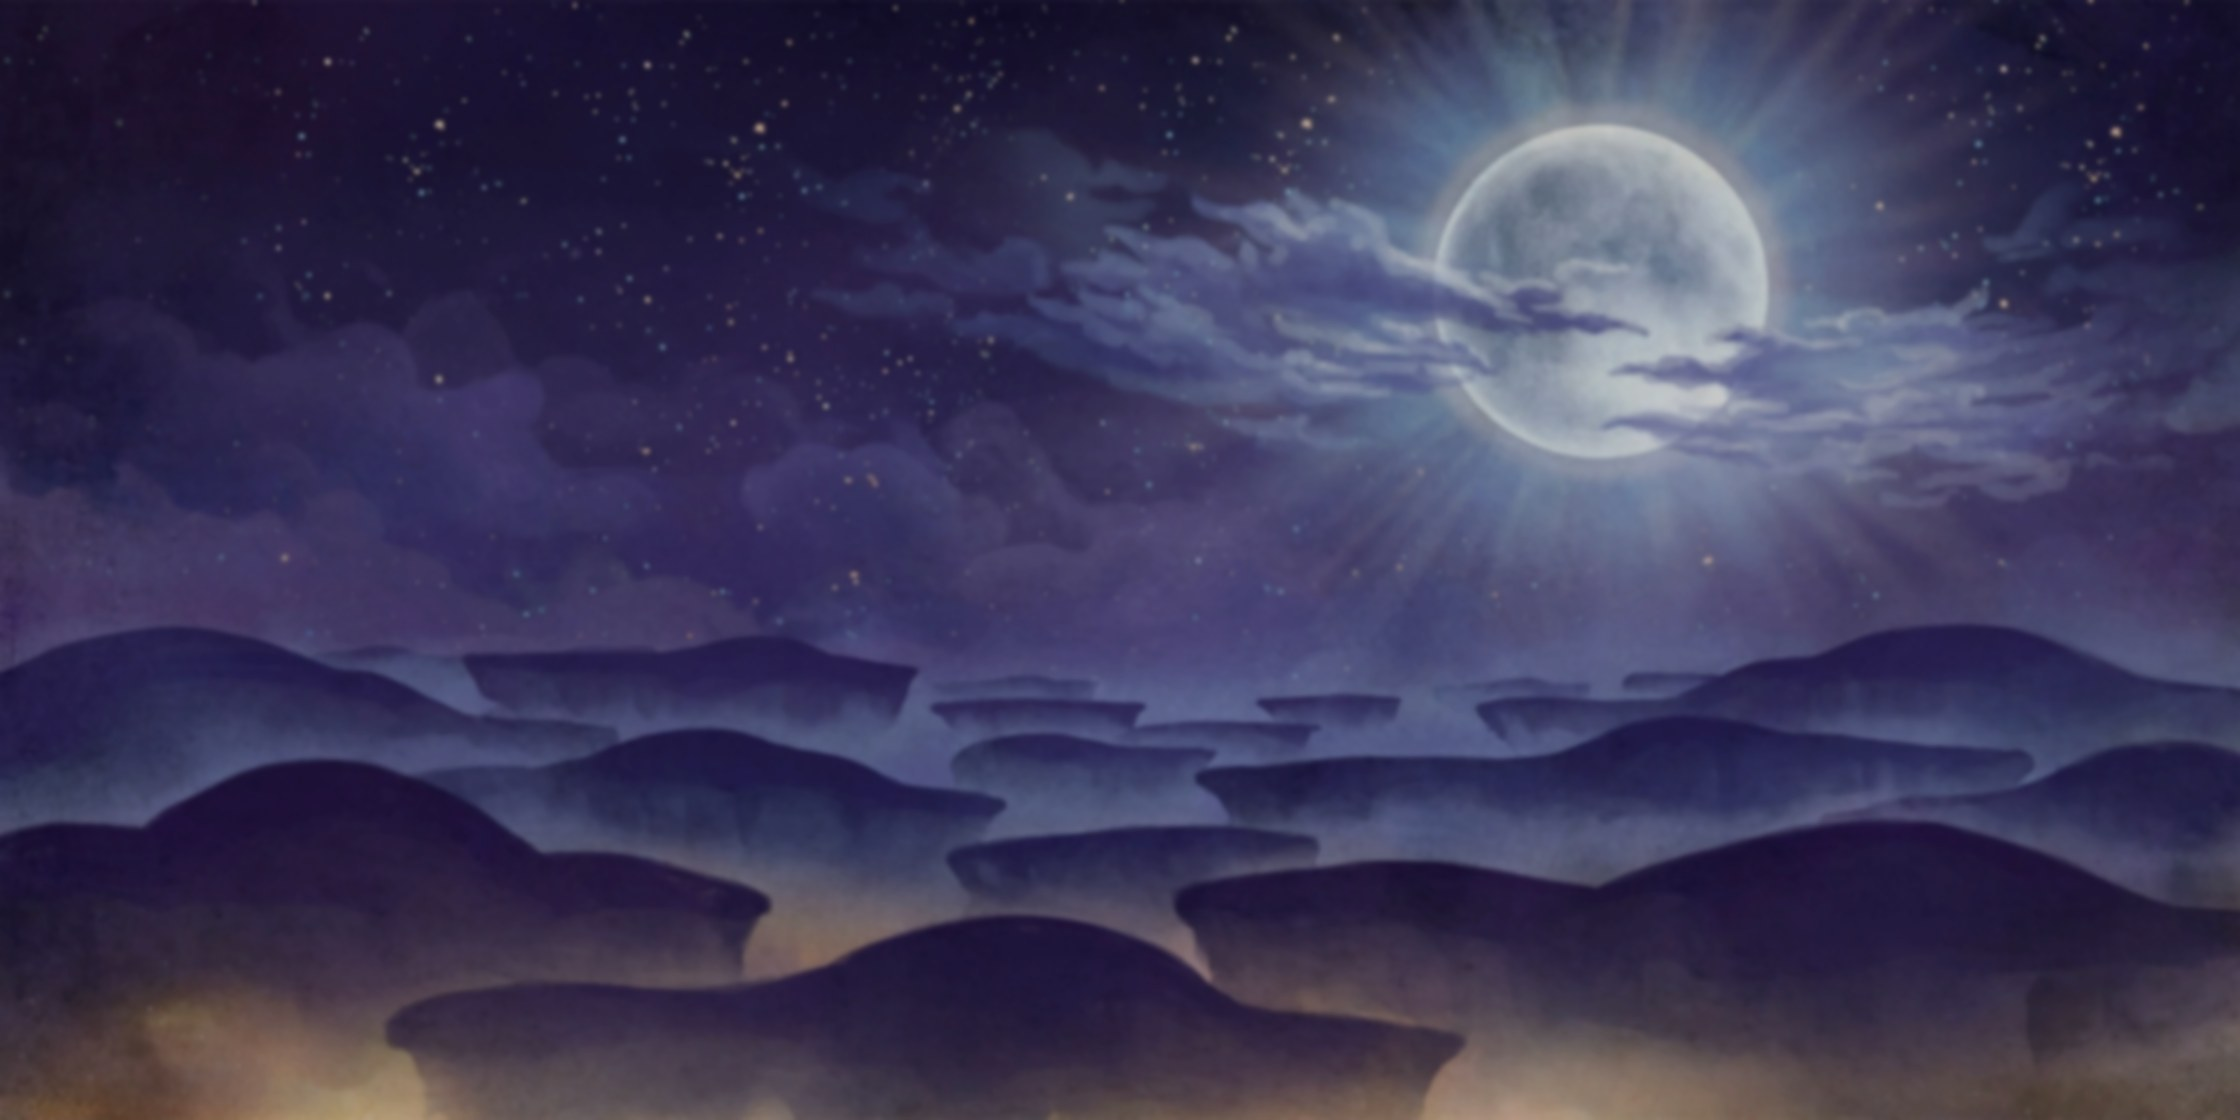
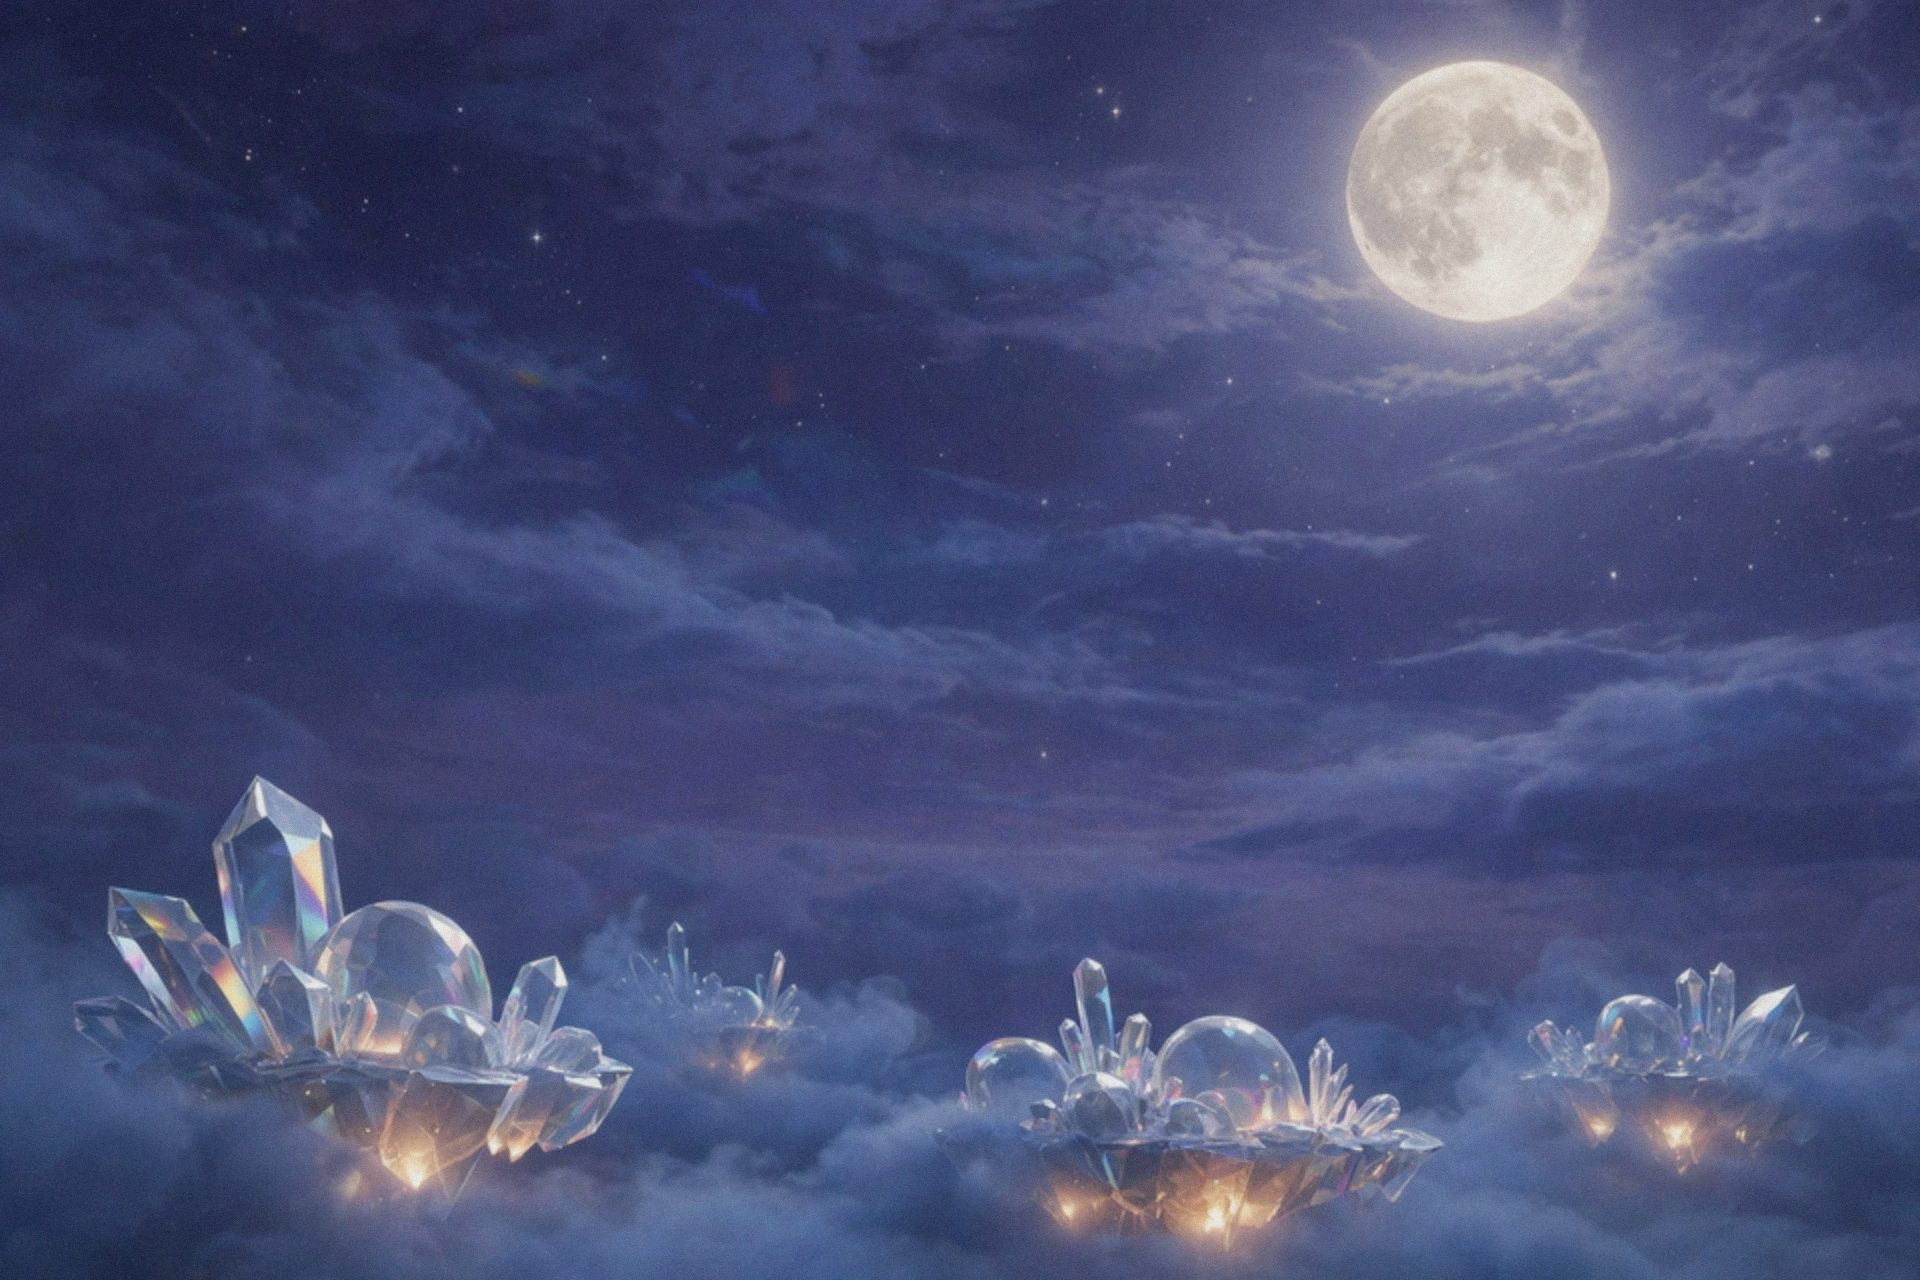
背景をクリスタルの浮島に変更＋星屑と流れ星の粒子表現を刷新

diff --git a/docs/index.html b/docs/index.html
@@ -626,12 +626,12 @@ document.addEventListener("DOMContentLoaded", () => {
       "--op:" + (.35+Math.random()*.6) + ";";
     container.appendChild(star);
   }
-  // ===== 流れ星（粒子で描く・左下へ・たまに） =====
+  // ===== 星屑と流れ星（粒子・奥行きと加速度つき） =====
   const mc = document.createElement("canvas");
   mc.style.cssText = "position:absolute;inset:0;width:100%;height:100%;pointer-events:none;";
   container.appendChild(mc);
   const mtx = mc.getContext("2d");
-  let CW = 0, CH = 0, parts = [], head = null, rafId = null;
+  let CW = 0, CH = 0;
   function sizeCanvas() {
     const dpr = Math.min(window.devicePixelRatio || 1, 2);
     CW = container.clientWidth; CH = container.clientHeight;
@@ -640,59 +640,92 @@ document.addEventListener("DOMContentLoaded", () => {
   }
   sizeCanvas();
   window.addEventListener("resize", sizeCanvas);
+
+  // 星屑：奥行き z で速度・大きさ・明るさが変わる
+  const DUST_N = 16;
+  const dust = [];
+  function newDust(init) {
+    const z = .3 + Math.random()*.7;
+    return {
+      x: Math.random()*CW, y: init ? Math.random()*CH*.8 : -4,
+      z, vy: .22 + z*.5, sway: Math.random()*Math.PI*2, swf: .008 + Math.random()*.012,
+      size: .5 + z*1.05, tw: Math.random()*Math.PI*2, tws: .06 + Math.random()*.1,
+      gold: Math.random() < .55
+    };
+  }
+  for (let i = 0; i < DUST_N; i++) dust.push(newDust(true));
+
+  // 流れ星：重力で加速しながら弧を描く頭＋細かい尾の粒
+  let head = null, tail = [];
+  function spawnMeteor() {
+    if (!head && CW > 0) {
+      const z = .7 + Math.random()*.3;
+      const th = (22 + Math.random()*8) * Math.PI/180;
+      const spd = 2.6 + Math.random()*1.1;
+      head = {
+        x: CW * (.55 + Math.random()*.35), y: CH * (.02 + Math.random()*.13),
+        vx: -Math.cos(th)*spd*z*1.6, vy: Math.sin(th)*spd*z*1.6,
+        z, life: 1
+      };
+    }
+    setTimeout(spawnMeteor, 11000 + Math.random()*9000);
+  }
+  setTimeout(spawnMeteor, 6000 + Math.random()*4000);
+
   function tick() {
     mtx.clearRect(0, 0, CW, CH);
+    for (let i = 0; i < dust.length; i++) {
+      const d = dust[i];
+      d.vy *= 1.0016;
+      d.y += d.vy; d.sway += d.swf;
+      d.x += Math.sin(d.sway) * .35 * d.z;
+      d.tw += d.tws;
+      const fade = d.y > CH*.72 ? Math.max(0, 1 - (d.y - CH*.72)/(CH*.2)) : 1;
+      const a = (.25 + .5*d.z) * (.55 + .45*Math.sin(d.tw)) * fade * .8;
+      mtx.fillStyle = d.gold ? "rgba(240,184,88," + a + ")" : "rgba(245,232,208," + a + ")";
+      mtx.beginPath(); mtx.arc(d.x, d.y, d.size, 0, Math.PI*2); mtx.fill();
+      if (d.y > CH*.95 || fade <= 0) dust[i] = newDust(false);
+    }
     if (head) {
+      head.vy += .05 * head.z;
+      head.vx *= .999;
       head.x += head.vx; head.y += head.vy;
-      head.vx *= .996; head.vy *= .996;
-      head.life -= .011;
-      const n = 4;
-      for (let i = 0; i < n; i++) {
-        parts.push({
-          x: head.x + (Math.random()-.5)*3, y: head.y + (Math.random()-.5)*3,
-          vx: -head.vx*.06 + (Math.random()-.5)*.5,
-          vy: -head.vy*.06 + (Math.random()-.5)*.5 - .08,
-          life: 1, decay: .012 + Math.random()*.02,
-          size: .6 + Math.random()*1.7,
-          tw: Math.random()*Math.PI*2, tws: .25 + Math.random()*.4,
+      head.life -= .0085;
+      for (let i = 0; i < 3; i++) {
+        const pz = Math.max(.25, head.z + (Math.random()-.5)*.3);
+        tail.push({
+          x: head.x + (Math.random()-.5)*2.5, y: head.y + (Math.random()-.5)*2.5,
+          vx: -head.vx*.05 + (Math.random()-.5)*.35,
+          vy: -head.vy*.05 + (Math.random()-.5)*.35,
+          z: pz, life: 1, decay: .011 + Math.random()*.014,
+          size: .4 + pz*.9,
+          tw: Math.random()*Math.PI*2, tws: .3 + Math.random()*.45,
           gold: Math.random() < .6
         });
       }
-      const ha = head.life < .15 ? head.life/.15 : (head.life > .9 ? (1-head.life)/.1 : 1);
-      const g = mtx.createRadialGradient(head.x, head.y, 0, head.x, head.y, 9);
-      g.addColorStop(0, "rgba(255,250,235," + (.9*ha) + ")");
-      g.addColorStop(.35, "rgba(240,184,88," + (.45*ha) + ")");
+      if (tail.length > 240) tail.splice(0, tail.length - 240);
+      const ha = head.life < .2 ? head.life/.2 : (head.life > .92 ? (1-head.life)/.08 : 1);
+      const R = 7 * head.z + 2;
+      const g = mtx.createRadialGradient(head.x, head.y, 0, head.x, head.y, R);
+      g.addColorStop(0, "rgba(255,250,235," + (.75*ha) + ")");
+      g.addColorStop(.35, "rgba(240,184,88," + (.32*ha) + ")");
       g.addColorStop(1, "rgba(240,184,88,0)");
       mtx.fillStyle = g;
-      mtx.beginPath(); mtx.arc(head.x, head.y, 9, 0, Math.PI*2); mtx.fill();
-      if (head.life <= 0) head = null;
+      mtx.beginPath(); mtx.arc(head.x, head.y, R, 0, Math.PI*2); mtx.fill();
+      if (head.life <= 0 || head.x < -20 || head.y > CH + 20) head = null;
     }
-    parts = parts.filter(p => p.life > 0);
-    for (const p of parts) {
-      p.x += p.vx; p.y += p.vy; p.life -= p.decay; p.tw += p.tws;
-      const sparkle = .55 + .45 * Math.sin(p.tw);
-      const a = Math.max(p.life, 0) * sparkle * .85;
-      mtx.fillStyle = p.gold
-        ? "rgba(240,184,88," + a + ")"
-        : "rgba(245,232,208," + a + ")";
+    tail = tail.filter(p => p.life > 0);
+    for (const p of tail) {
+      p.x += p.vx; p.y += p.vy;
+      p.vx *= .985; p.vy = p.vy * .985 + .004;
+      p.life -= p.decay; p.tw += p.tws;
+      const a = Math.max(p.life, 0) * (.5 + .5*Math.sin(p.tw)) * .7;
+      mtx.fillStyle = p.gold ? "rgba(240,184,88," + a + ")" : "rgba(245,232,208," + a + ")";
       mtx.beginPath(); mtx.arc(p.x, p.y, p.size, 0, Math.PI*2); mtx.fill();
     }
-    if (head || parts.length) { rafId = requestAnimationFrame(tick); }
-    else { rafId = null; mtx.clearRect(0, 0, CW, CH); }
+    requestAnimationFrame(tick);
   }
-  function spawnMeteor() {
-    if (!head) {
-      const th = (28 + Math.random()*10) * Math.PI/180;
-      const spd = 5.4 + Math.random()*1.8;
-      head = {
-        x: CW * (.5 + Math.random()*.38), y: CH * (.03 + Math.random()*.15),
-        vx: -Math.cos(th)*spd, vy: Math.sin(th)*spd, life: 1
-      };
-      if (!rafId) tick();
-    }
-    setTimeout(spawnMeteor, 9000 + Math.random()*9000);
-  }
-  setTimeout(spawnMeteor, 5000 + Math.random()*4000);
+  tick();
 })();
 
 // ===== ナビのスクロール制御 =====

diff --git a/docs/links.html b/docs/links.html
@@ -208,12 +208,12 @@ footer a:hover { color:var(--cream); }
       "--op:" + (.35+Math.random()*.6) + ";";
     container.appendChild(star);
   }
-  // ===== 流れ星（粒子で描く・左下へ・たまに） =====
+  // ===== 星屑と流れ星（粒子・奥行きと加速度つき） =====
   const mc = document.createElement("canvas");
   mc.style.cssText = "position:absolute;inset:0;width:100%;height:100%;pointer-events:none;";
   container.appendChild(mc);
   const mtx = mc.getContext("2d");
-  let CW = 0, CH = 0, parts = [], head = null, rafId = null;
+  let CW = 0, CH = 0;
   function sizeCanvas() {
     const dpr = Math.min(window.devicePixelRatio || 1, 2);
     CW = container.clientWidth; CH = container.clientHeight;
@@ -222,59 +222,92 @@ footer a:hover { color:var(--cream); }
   }
   sizeCanvas();
   window.addEventListener("resize", sizeCanvas);
+
+  // 星屑：奥行き z で速度・大きさ・明るさが変わる
+  const DUST_N = 16;
+  const dust = [];
+  function newDust(init) {
+    const z = .3 + Math.random()*.7;
+    return {
+      x: Math.random()*CW, y: init ? Math.random()*CH*.8 : -4,
+      z, vy: .22 + z*.5, sway: Math.random()*Math.PI*2, swf: .008 + Math.random()*.012,
+      size: .5 + z*1.05, tw: Math.random()*Math.PI*2, tws: .06 + Math.random()*.1,
+      gold: Math.random() < .55
+    };
+  }
+  for (let i = 0; i < DUST_N; i++) dust.push(newDust(true));
+
+  // 流れ星：重力で加速しながら弧を描く頭＋細かい尾の粒
+  let head = null, tail = [];
+  function spawnMeteor() {
+    if (!head && CW > 0) {
+      const z = .7 + Math.random()*.3;
+      const th = (22 + Math.random()*8) * Math.PI/180;
+      const spd = 2.6 + Math.random()*1.1;
+      head = {
+        x: CW * (.55 + Math.random()*.35), y: CH * (.02 + Math.random()*.13),
+        vx: -Math.cos(th)*spd*z*1.6, vy: Math.sin(th)*spd*z*1.6,
+        z, life: 1
+      };
+    }
+    setTimeout(spawnMeteor, 11000 + Math.random()*9000);
+  }
+  setTimeout(spawnMeteor, 6000 + Math.random()*4000);
+
   function tick() {
     mtx.clearRect(0, 0, CW, CH);
+    for (let i = 0; i < dust.length; i++) {
+      const d = dust[i];
+      d.vy *= 1.0016;
+      d.y += d.vy; d.sway += d.swf;
+      d.x += Math.sin(d.sway) * .35 * d.z;
+      d.tw += d.tws;
+      const fade = d.y > CH*.72 ? Math.max(0, 1 - (d.y - CH*.72)/(CH*.2)) : 1;
+      const a = (.25 + .5*d.z) * (.55 + .45*Math.sin(d.tw)) * fade * .8;
+      mtx.fillStyle = d.gold ? "rgba(240,184,88," + a + ")" : "rgba(245,232,208," + a + ")";
+      mtx.beginPath(); mtx.arc(d.x, d.y, d.size, 0, Math.PI*2); mtx.fill();
+      if (d.y > CH*.95 || fade <= 0) dust[i] = newDust(false);
+    }
     if (head) {
+      head.vy += .05 * head.z;
+      head.vx *= .999;
       head.x += head.vx; head.y += head.vy;
-      head.vx *= .996; head.vy *= .996;
-      head.life -= .011;
-      const n = 4;
-      for (let i = 0; i < n; i++) {
-        parts.push({
-          x: head.x + (Math.random()-.5)*3, y: head.y + (Math.random()-.5)*3,
-          vx: -head.vx*.06 + (Math.random()-.5)*.5,
-          vy: -head.vy*.06 + (Math.random()-.5)*.5 - .08,
-          life: 1, decay: .012 + Math.random()*.02,
-          size: .6 + Math.random()*1.7,
-          tw: Math.random()*Math.PI*2, tws: .25 + Math.random()*.4,
+      head.life -= .0085;
+      for (let i = 0; i < 3; i++) {
+        const pz = Math.max(.25, head.z + (Math.random()-.5)*.3);
+        tail.push({
+          x: head.x + (Math.random()-.5)*2.5, y: head.y + (Math.random()-.5)*2.5,
+          vx: -head.vx*.05 + (Math.random()-.5)*.35,
+          vy: -head.vy*.05 + (Math.random()-.5)*.35,
+          z: pz, life: 1, decay: .011 + Math.random()*.014,
+          size: .4 + pz*.9,
+          tw: Math.random()*Math.PI*2, tws: .3 + Math.random()*.45,
           gold: Math.random() < .6
         });
       }
-      const ha = head.life < .15 ? head.life/.15 : (head.life > .9 ? (1-head.life)/.1 : 1);
-      const g = mtx.createRadialGradient(head.x, head.y, 0, head.x, head.y, 9);
-      g.addColorStop(0, "rgba(255,250,235," + (.9*ha) + ")");
-      g.addColorStop(.35, "rgba(240,184,88," + (.45*ha) + ")");
+      if (tail.length > 240) tail.splice(0, tail.length - 240);
+      const ha = head.life < .2 ? head.life/.2 : (head.life > .92 ? (1-head.life)/.08 : 1);
+      const R = 7 * head.z + 2;
+      const g = mtx.createRadialGradient(head.x, head.y, 0, head.x, head.y, R);
+      g.addColorStop(0, "rgba(255,250,235," + (.75*ha) + ")");
+      g.addColorStop(.35, "rgba(240,184,88," + (.32*ha) + ")");
       g.addColorStop(1, "rgba(240,184,88,0)");
       mtx.fillStyle = g;
-      mtx.beginPath(); mtx.arc(head.x, head.y, 9, 0, Math.PI*2); mtx.fill();
-      if (head.life <= 0) head = null;
+      mtx.beginPath(); mtx.arc(head.x, head.y, R, 0, Math.PI*2); mtx.fill();
+      if (head.life <= 0 || head.x < -20 || head.y > CH + 20) head = null;
     }
-    parts = parts.filter(p => p.life > 0);
-    for (const p of parts) {
-      p.x += p.vx; p.y += p.vy; p.life -= p.decay; p.tw += p.tws;
-      const sparkle = .55 + .45 * Math.sin(p.tw);
-      const a = Math.max(p.life, 0) * sparkle * .85;
-      mtx.fillStyle = p.gold
-        ? "rgba(240,184,88," + a + ")"
-        : "rgba(245,232,208," + a + ")";
+    tail = tail.filter(p => p.life > 0);
+    for (const p of tail) {
+      p.x += p.vx; p.y += p.vy;
+      p.vx *= .985; p.vy = p.vy * .985 + .004;
+      p.life -= p.decay; p.tw += p.tws;
+      const a = Math.max(p.life, 0) * (.5 + .5*Math.sin(p.tw)) * .7;
+      mtx.fillStyle = p.gold ? "rgba(240,184,88," + a + ")" : "rgba(245,232,208," + a + ")";
       mtx.beginPath(); mtx.arc(p.x, p.y, p.size, 0, Math.PI*2); mtx.fill();
     }
-    if (head || parts.length) { rafId = requestAnimationFrame(tick); }
-    else { rafId = null; mtx.clearRect(0, 0, CW, CH); }
+    requestAnimationFrame(tick);
   }
-  function spawnMeteor() {
-    if (!head) {
-      const th = (28 + Math.random()*10) * Math.PI/180;
-      const spd = 5.4 + Math.random()*1.8;
-      head = {
-        x: CW * (.5 + Math.random()*.38), y: CH * (.03 + Math.random()*.15),
-        vx: -Math.cos(th)*spd, vy: Math.sin(th)*spd, life: 1
-      };
-      if (!rafId) tick();
-    }
-    setTimeout(spawnMeteor, 9000 + Math.random()*9000);
-  }
-  setTimeout(spawnMeteor, 5000 + Math.random()*4000);
+  tick();
 })();
 </script>
 </body>
